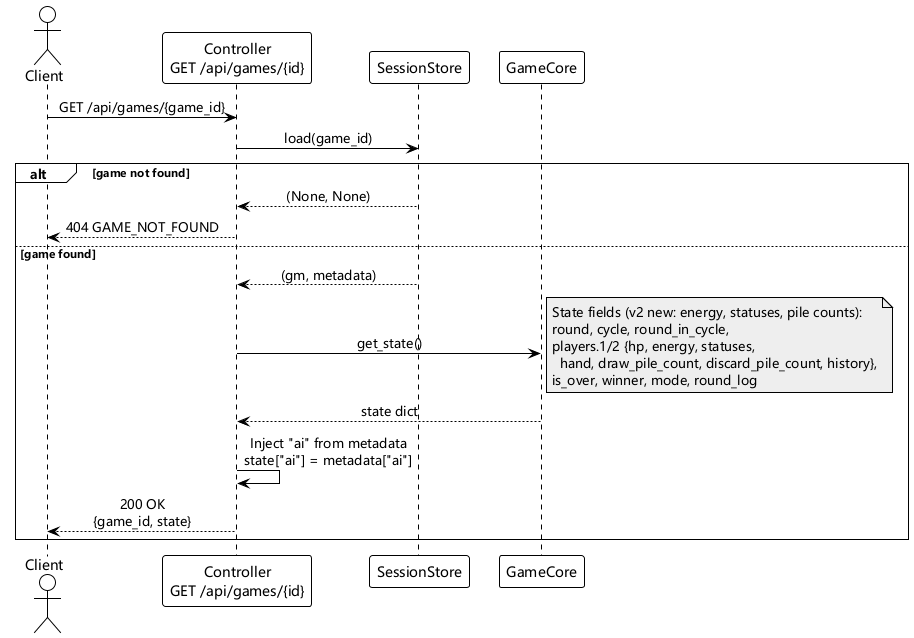
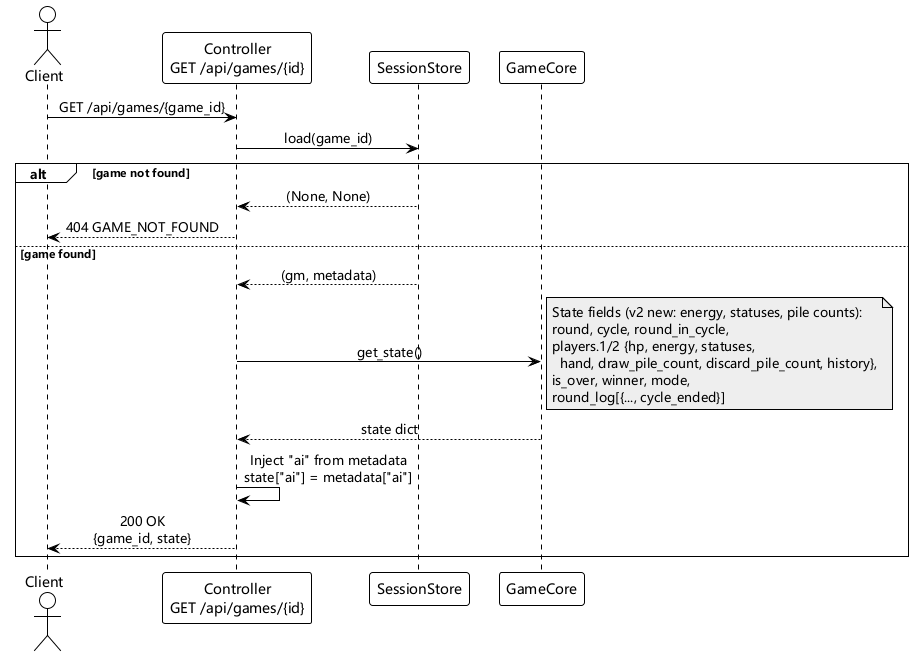
feat: add cycle_ended field to RoundResult + fix bleed HP
RoundResult now includes cycle_ended=True when round 5 completes and
cycle bleed triggers. HP after bleed is now always reflected in
hp_1_after/hp_2_after (previously only updated on game over).

Changes:
- RoundResult: +cycle_ended: bool
- play_round: update hp_after after bleed regardless of game over
- serializers: include cycle_ended in round_result_to_dict
- session_store: persist/restore cycle_ended
- get_state round_log: include cycle_ended
- Updated endpoint diagrams + tests

diff --git a/src/backend/game/game_core.py b/src/backend/game/game_core.py
@@ -49,6 +49,7 @@ class RoundResult:
     details: list[str]
     is_game_over: bool
     winner: str | None
+    cycle_ended: bool = False
 
 
 class GameCore:
@@ -199,6 +200,7 @@ class GameCore:
             details=resolution.details,
             is_game_over=False,
             winner=None,
+            cycle_ended=False,
         )
 
         # Step 10: Check game end from damage
@@ -213,11 +215,13 @@ class GameCore:
         if self.round_in_cycle >= self.ROUNDS_PER_CYCLE:
             self.player_1.take_damage(1)
             self.player_2.take_damage(1)
+            # Update result HP to reflect cycle bleed
+            result.hp_1_after = self.player_1.hp
+            result.hp_2_after = self.player_2.hp
+            result.cycle_ended = True
             # Check game end again after cycle bleed
             is_over, winner = self._check_game_end()
             if is_over:
-                result.hp_1_after = self.player_1.hp
-                result.hp_2_after = self.player_2.hp
                 result.is_game_over = True
                 result.winner = winner
                 self.round_log.append(result)
@@ -300,6 +304,7 @@ class GameCore:
                     "details": rr.details,
                     "is_game_over": rr.is_game_over,
                     "winner": rr.winner,
+                    "cycle_ended": rr.cycle_ended,
                 }
                 for rr in self.round_log
             ],

diff --git a/tests/unit/test_game_core.py b/tests/unit/test_game_core.py
@@ -76,13 +76,29 @@ class TestCycleMechanics:
         gm.player_2.hp = 10
 
         result = gm.play_round([CardType.ATTACK], [CardType.ATTACK])
-        # Both took 1 attack damage + 1 cycle bleed = 2 damage
-        # Actually: same-priority ATTACK vs ATTACK with 0 streak → 1 each
-        # Then cycle bleed: 1 each → total 2 each → hp 10→8
+        # Both took 1 attack damage + 1 cycle bleed = 2 total → hp 10→8
         assert gm.player_1.hp == 8
         assert gm.player_2.hp == 8
+        assert result.hp_1_after == 8  # HP reflects bleed
+        assert result.hp_2_after == 8
+        assert result.cycle_ended is True
         assert gm.cycle_number == 2
         assert gm.round_in_cycle == 1
+
+    def test_mid_cycle_no_bleed(self):
+        """Round 3 of a cycle: no cycle_ended, no HP bleed."""
+        gm = GameCore(mode="pvp")
+        gm.start_game()
+        gm.round_in_cycle = 3
+        gm.round_number = 3
+        gm.player_1.hand = [CardType.ATTACK]
+        gm.player_2.hand = [CardType.DEFENSE]
+        gm.player_1.hp = 10
+        gm.player_2.hp = 10
+
+        result = gm.play_round([CardType.ATTACK], [CardType.DEFENSE])
+        assert result.cycle_ended is False
+        assert gm.player_1.hp == 10  # No bleed
 
     def test_cycle_bleed_causes_game_end(self):
         """TC-GC-04: Cycle end bleed with hp=1 each → both die → draw."""

diff --git a/src/backend/game/session_store.py b/src/backend/game/session_store.py
@@ -101,6 +101,7 @@ def _serialize_round_result(rr: RoundResult) -> dict:
         "details": rr.details,
         "is_game_over": rr.is_game_over,
         "winner": rr.winner,
+        "cycle_ended": rr.cycle_ended,
     }
 
 
@@ -124,6 +125,7 @@ def _deserialize_round_result(data: dict) -> RoundResult:
         details=data["details"],
         is_game_over=data["is_game_over"],
         winner=data["winner"],
+        cycle_ended=data.get("cycle_ended", False),
     )
 
 

diff --git a/src/backend/controller/serializers.py b/src/backend/controller/serializers.py
@@ -77,6 +77,7 @@ def round_result_to_dict(rr: RoundResult) -> dict:
         "details": rr.details,
         "is_game_over": rr.is_game_over,
         "winner": rr.winner,
+        "cycle_ended": rr.cycle_ended,
     }
 
 
